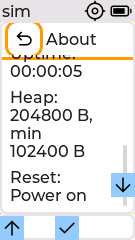
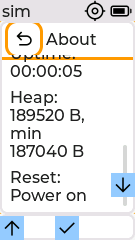
fix(sim): stop a hardware action from shadowing the companion Reject (#419)
* fix(sim): stop a hardware action from shadowing the companion Reject

The hardware model's companion-reject action ran before the UI dispatch,
so a scenario's companion-reject never clicked the pairing dialog's Reject
button. The docs capture left the Pair device box open over the connect
captures and stopped on camera-pair-reject. Rename the hardware action to
companion-reject-central, add a reject leg to companion-pairing-input and
assert the modal closes in the docs capture.

* docs: regenerate the gallery captures that changed

The device info and About heap values follow the code-derived boot heap
from #412 and #413. The Large text header no longer cuts the title after
the #415 header fix. Update the wiki copies and record each change in
plan 316.

---------

Changed region(s): [[0.0593, 0.4375, 0.6815, 0.525], [0.1185, 0.5833, 0.5037, 0.6708], [0.5333, 0.5833, 0.6222, 0.6708]]

diff --git a/sim/scenario_action.cpp b/sim/scenario_action.cpp
@@ -177,6 +177,7 @@ bool validateScenarioAction(const scenario_action_t &action, std::string *error)
                                      "ble-gatt-fresh",
                                      "companion-reidentify",
                                      "companion-reconnect",
+                                     "companion-reject-central",
                                      "audio-overcurrent",
                                      "ir-timeout",
                                      "sd-present",
@@ -553,6 +554,7 @@ bool parseScenarioAction(const std::string &text, scenario_action_t *action, std
       "ble-gatt-fresh",
       "companion-reidentify",
       "companion-reconnect",
+      "companion-reject-central",
       "audio-overcurrent",
       "ir-timeout",
       "sd-present",

diff --git a/sim/hardware_model.cpp b/sim/hardware_model.cpp
@@ -1053,7 +1053,7 @@ bool hwAction(const std::string &name) {
     ESP_LOGI(LOG_TAG, "companion reidentify: address rotated, bond dropped, pairing reopened");
     return true;
   }
-  if (name == "companion-reject") {
+  if (name == "companion-reject-central") {
     hw.ble.rejectedLinks++;
     hw.ble.companion = "rejected";
     ESP_LOGW(LOG_TAG, "companion rejected an unbonded central");

diff --git a/plans/316-docs-capture-companion-reject.md b/plans/316-docs-capture-companion-reject.md
@@ -1,0 +1,67 @@
+# 316: docs capture stops on a shadowed companion-reject action
+
+## Motivation
+
+`sim/scripts/docs-capture.sh` stopped on master. The companion pairing box
+from the `companion-pairing` capture stayed open over the connect captures.
+`connecting`, `connected` and `remote` showed the "Pair device" box. The camera
+prompt could not open under it, so `camera-pair-reject` returned
+`VALID_NO_EFFECT` and the script exited 1.
+
+The report blamed the non-rig build. That was a red herring. The docs capture
+is the only script that sends `action companion-reject` to the UI, and it
+always builds with `FURBLE_SIM_RIG=0`. A rig build behaves the same.
+
+## Root cause
+
+PR #399 (`fa499564`) added a hardware-model action named `companion-reject`
+to `sim/hardware_model.cpp`. It models the companion refusing an unbonded
+central and backs `e2e/hw-ble-auth-gatt-reidentify.txt`. The driver offers
+every action to `hwAction()` before the UI dispatch. So the scenario line
+`action companion-reject` incremented `companion.rejected`, logged
+"companion rejected an unbonded central" and reported `APPLIED`. The UI's own
+`companion-reject`, which clicks the pairing dialog's Reject button, never ran.
+The injected pairing stayed pending and the pairing timer kept the dialog open.
+
+It is a simulator seam collision, not a product path. No firmware source is
+involved, and companion pairing is not enabled by default. The fuzzer was not
+affected because it calls `UI::simScenarioAction` directly.
+
+A scan of every `hwAction()` name against the strings `UI::simScenarioAction`
+compares found `companion-reject` is the only collision.
+
+## Fix
+
+- Rename the hardware-model action to `companion-reject-central`. Add it to
+  both action allowlists in `sim/scenario_action.cpp` and to `docs/sim.md`.
+  `e2e/hw-ble-auth-gatt-reidentify.txt` uses the new name and keeps every
+  assertion.
+- `action companion-reject` again reaches the dialog's Reject handler.
+- `e2e/companion-pairing-input.txt` gains a reject leg that asserts the modal
+  closes and focus returns to the page. The same sequence on the pre-fix
+  binary left `ui.modal open` after the reject.
+- `sim/scripts/docs-screenshots.txt` asserts `ui.modal closed` after the
+  reject, so the capture fails at the cause rather than three captures later.
+
+The branch starts from PR #415, which adds the `heap_count.h` include the
+non-rig `sim/CompanionRigTransport.cpp` branch needs to compile.
+
+## Regenerated captures
+
+With the fix, `connecting`, `remote` and `camera-pairing` are byte-identical
+to the committed images. They only differed in the stopped run because the
+pairing box covered them. These captures did change:
+
+| Images | Change | Cause |
+| --- | --- | --- |
+| `diag-device-info`, `textsize/{small,normal}/device-info`, `scroll/{default,dark}/about-{2,3}` | Heap reads 175056 B on Device info and 189520 B, min 187040 B on About, not 204800 B | #412 and #413 seed each board with its code-derived boot heap and charge device allocations |
+| `textsize/large/{connected,device-info,settings}` | The header title is no longer cut at the top edge | The PR #415 header row fix |
+| `connected` | One pixel in the Bulb icon is one antialiasing shade lighter | Not isolated. It reproduced byte-identically in two runs on this branch |
+
+The wiki copies of `connected` and `diag-device-info` are updated in
+`docs/wiki/img/`. The wiki needs a push. `docs/ui-walkthrough.md` embeds
+these files by path and quotes no heap value, so its text is unchanged.
+
+## Implementation state
+
+Implemented. `docs-capture.sh` completes on all three boards and themes.

diff --git a/plans/README.md b/plans/README.md
@@ -99,6 +99,7 @@ the git history. They are no longer ownership rows.
 | [314-memory-resilience.md](314-memory-resilience.md) | Memory resilience: sim heap fidelity and abort parity, load shedding, static and dynamic memory gates |
 | [314-review-feedback.md](314-review-feedback.md) | Review-feedback record for the plan 314 memory resilience series |
 | [315-stickc-layout-regressions.md](315-stickc-layout-regressions.md) | M5StickC header battery anchor, Cameras page double reserve and Time page scroll fixes |
+| [316-docs-capture-companion-reject.md](316-docs-capture-companion-reject.md) | Docs capture: rename the hardware-model action that shadowed the companion pairing Reject |
 | [302-companion-restart-reconnect.md](302-companion-restart-reconnect.md) | Companion stop/start without a heap panic, and advertising restart after a rejected link |
 | [303-upstream-sync.md](303-upstream-sync.md) | Read-only upstream audit, open issue mapping, and full SHA PlatformIO pins for upstream issue 309 |
 

diff --git a/sim/CLAUDE.md b/sim/CLAUDE.md
@@ -401,6 +401,10 @@ shortens that host retry cadence for a bounded scenario.
   `INVALID`, and malformed direct calls fail closed. Plain `action` lines
   require `APPLIED`; intentional `VALID_NO_EFFECT` or `UNAVAILABLE` outcomes
   must use `action expect no-effect ...` or `action expect unavailable ...`.
+  The driver offers each action to the hardware model (`hwAction`) before the
+  UI, so a hardware-model action must never reuse a UI action name. The
+  hardware `companion-reject` once shadowed the pairing dialog's Reject and
+  stopped the docs capture; it is now `companion-reject-central` (plan 316).
   The valid root aliases
   `page main` and `page menu` both dispatch to the root page. Signed pixel
   scrolling accepts -2147483647 through 2147483647 (plus `top`, `bottom`, and

diff --git a/docs/sim.md b/docs/sim.md
@@ -729,6 +729,7 @@ action ble-gatt-stale
 action ble-gatt-fresh
 action companion-reidentify
 action companion-reconnect
+action companion-reject-central
 action audio-overcurrent
 action ir-timeout
 action sd-present
